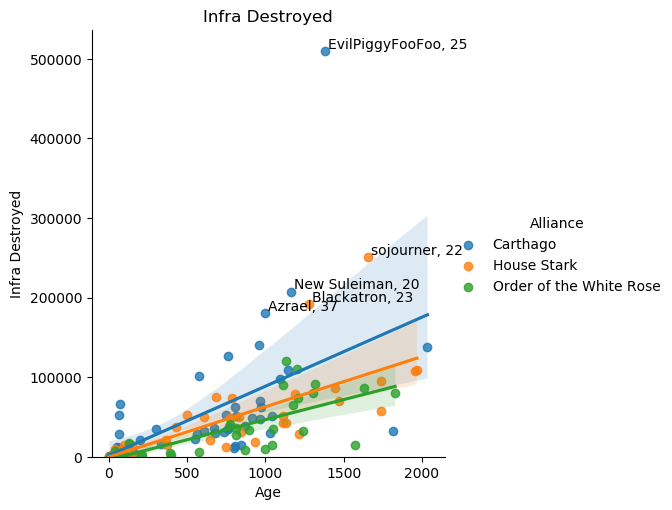
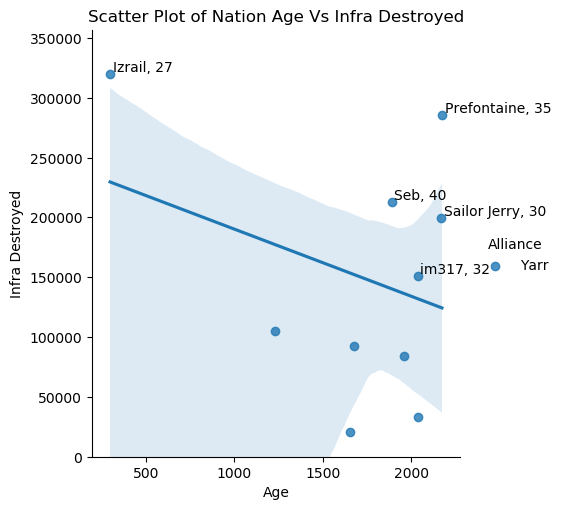
'outlier'

diff --git a/War_Pig.py b/War_Pig.py
@@ -20,6 +20,7 @@ import pandas as pd
 import seaborn as sns
 import matplotlib.pyplot as plt
 import math
+from scipy import stats
 from bs4 import BeautifulSoup
 from discord.ext import commands
 from openpyxl.styles import Font
@@ -402,7 +403,11 @@ async def graph(ctx, type, *alliances): #need to make this faster and more effic
             soup_data = BeautifulSoup(res.text, 'html.parser')
             data = soup_data.find(text = re.compile('Showing'))
             num_nations = float(data.split()[3])
-
+            if num_nations == 0:
+                await ctx.send(f'Could not find any nations in the alliance {ally.replace("+", " ").title()}, make sure it is spelled correctly')
+                label.remove(ally)
+                continue
+                
             alliance_city_data = []
             #alliance_city_data = defaultdict(lambda: 0, alliance_city_data)
 
@@ -515,10 +520,10 @@ def ping(ping_list):
 
 
 def ann(df, value):
-        Q1 = df[value].quantile(0.25)
-        Q3 = df[value].quantile(0.75)
-        IQR = Q3 - Q1
-        outliers = df[df[value] > (Q3 + 1.5 * IQR)]
+        slope, intercept, r_value, p_value, std_err = stats.linregress(df['Age'],df[value])
+        std_resid = math.sqrt((sum((df[value] - slope * df['Age'])**2))/(len(df.index)-2))
+        print(f'slope - {slope}, intercept - {intercept} std_resid - {std_resid}')
+        outliers = df[df[value] > (slope * df['Age'] + 0.8 * std_resid)]
         plt.ylim(0, None)
         plt.title(f'Scatter Plot of Nation Age Vs {value}')
         for row in outliers.iterrows():
